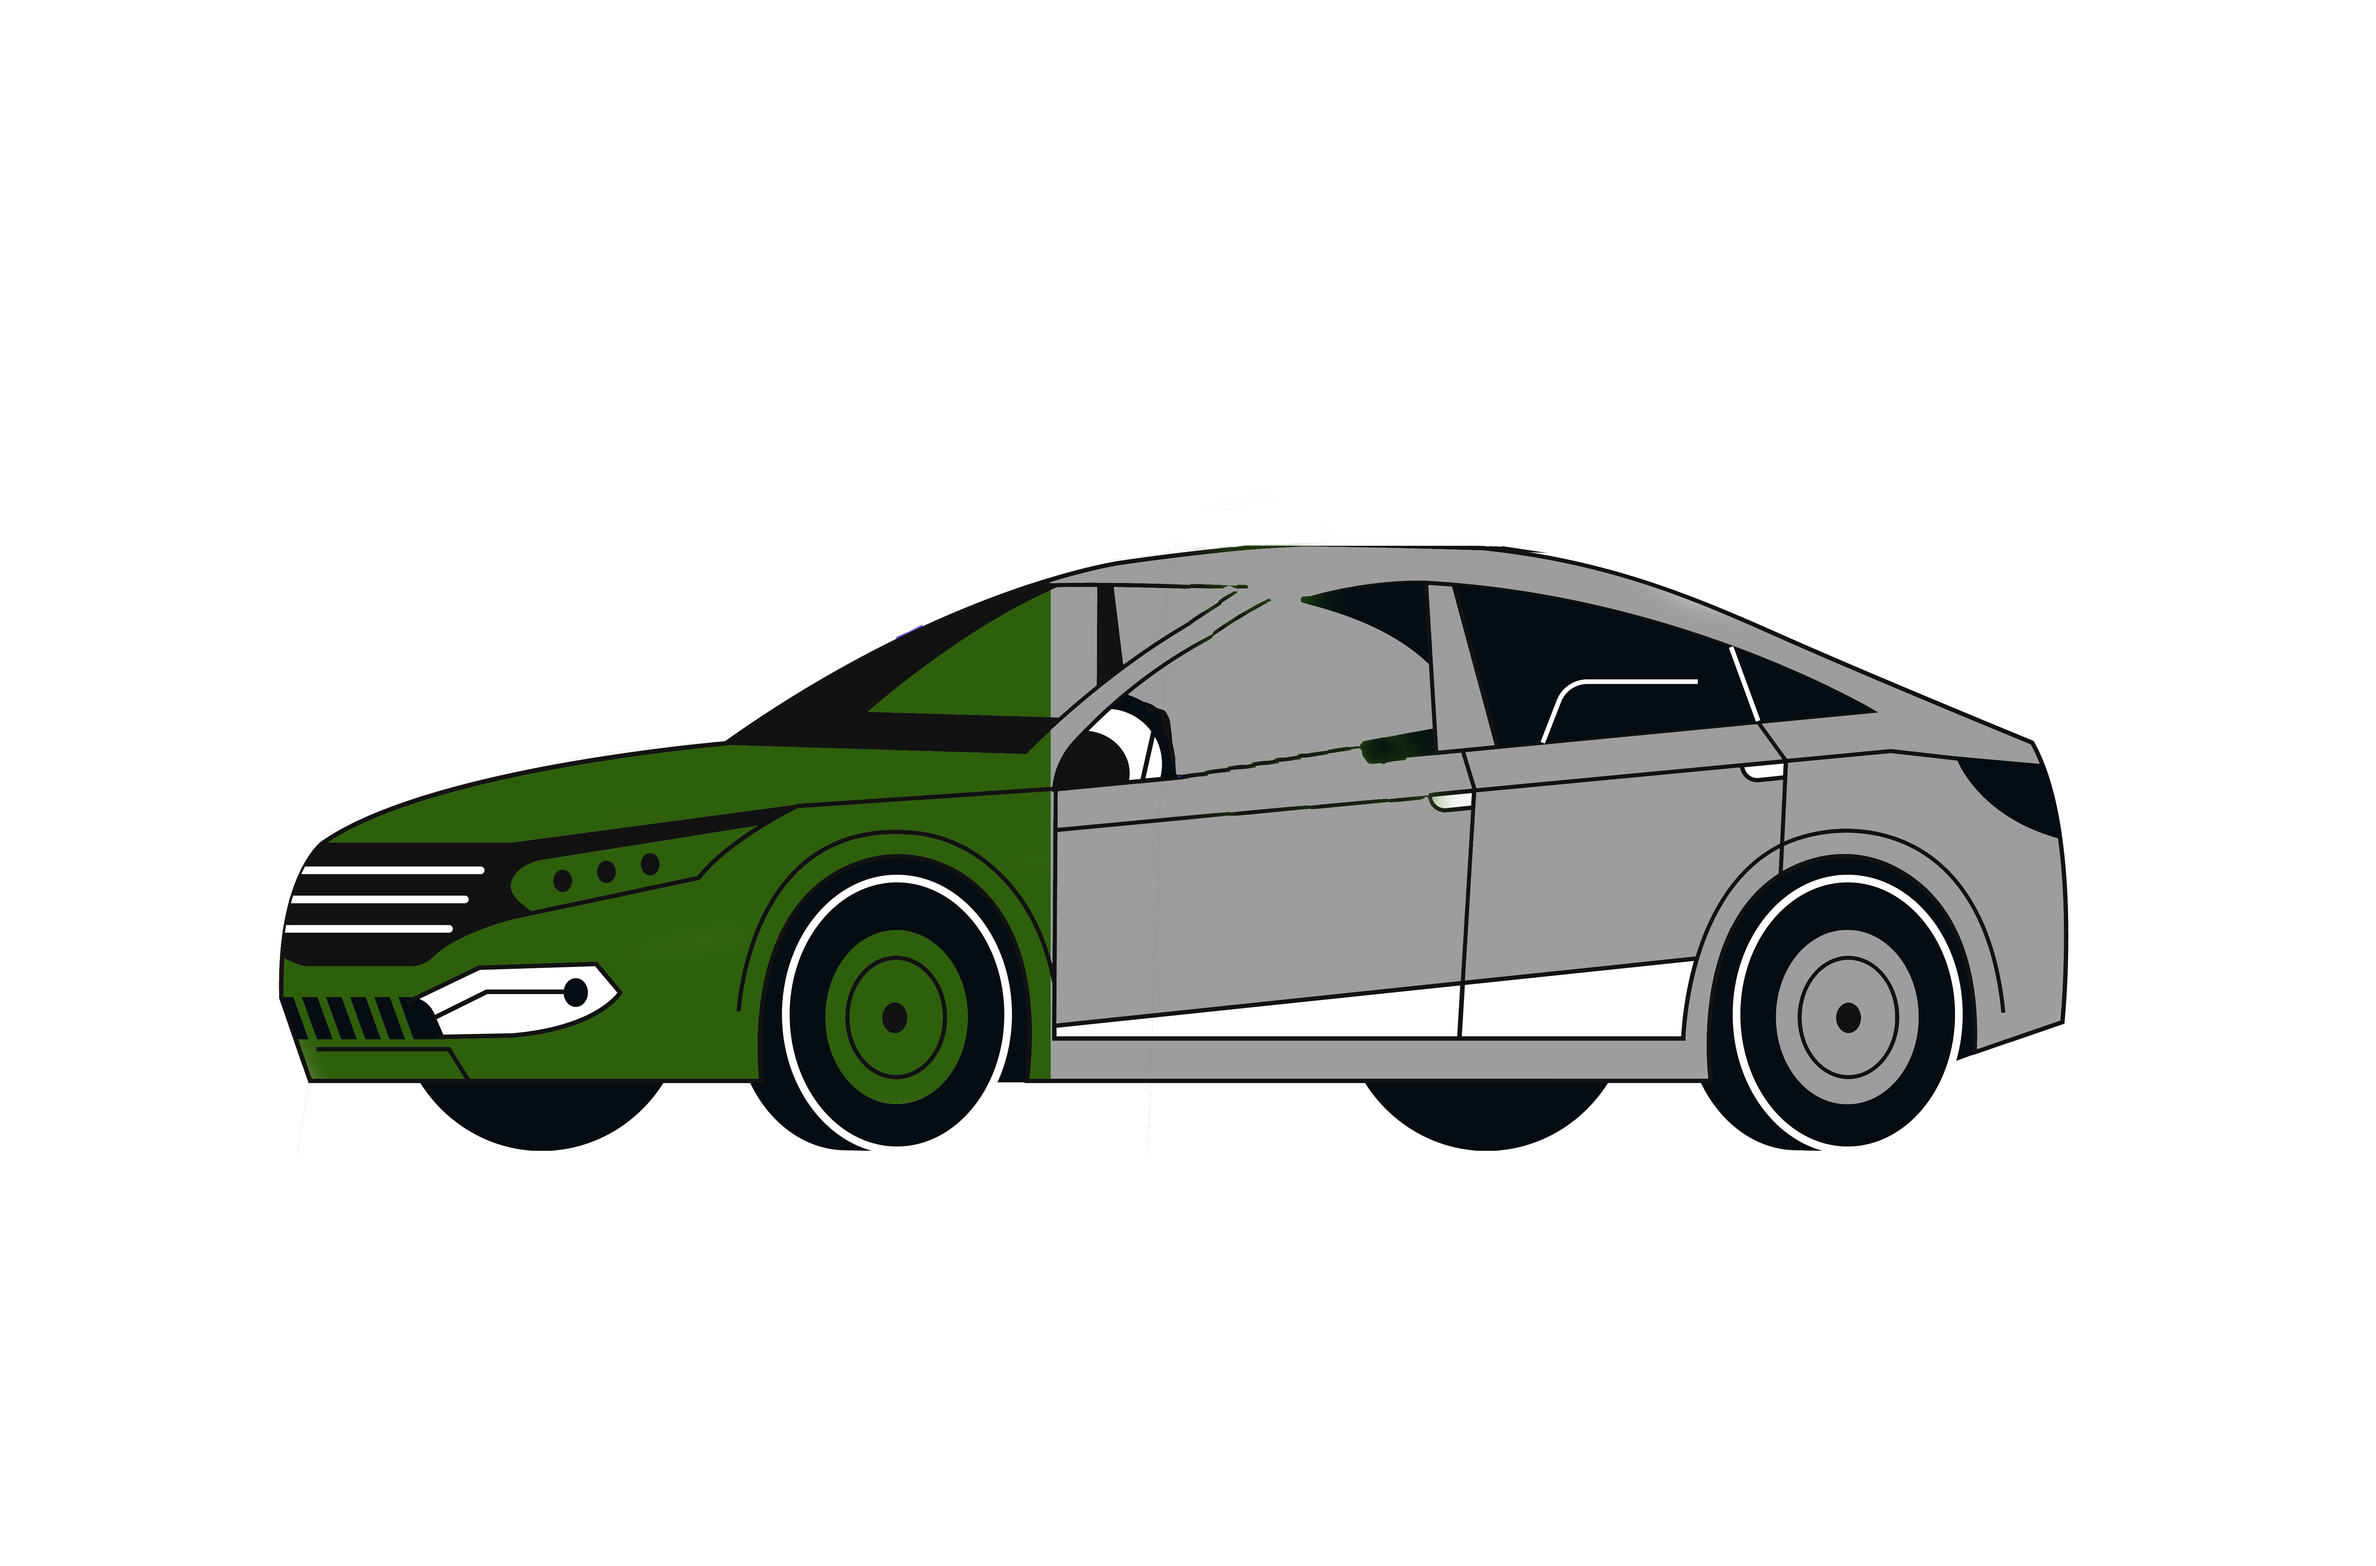
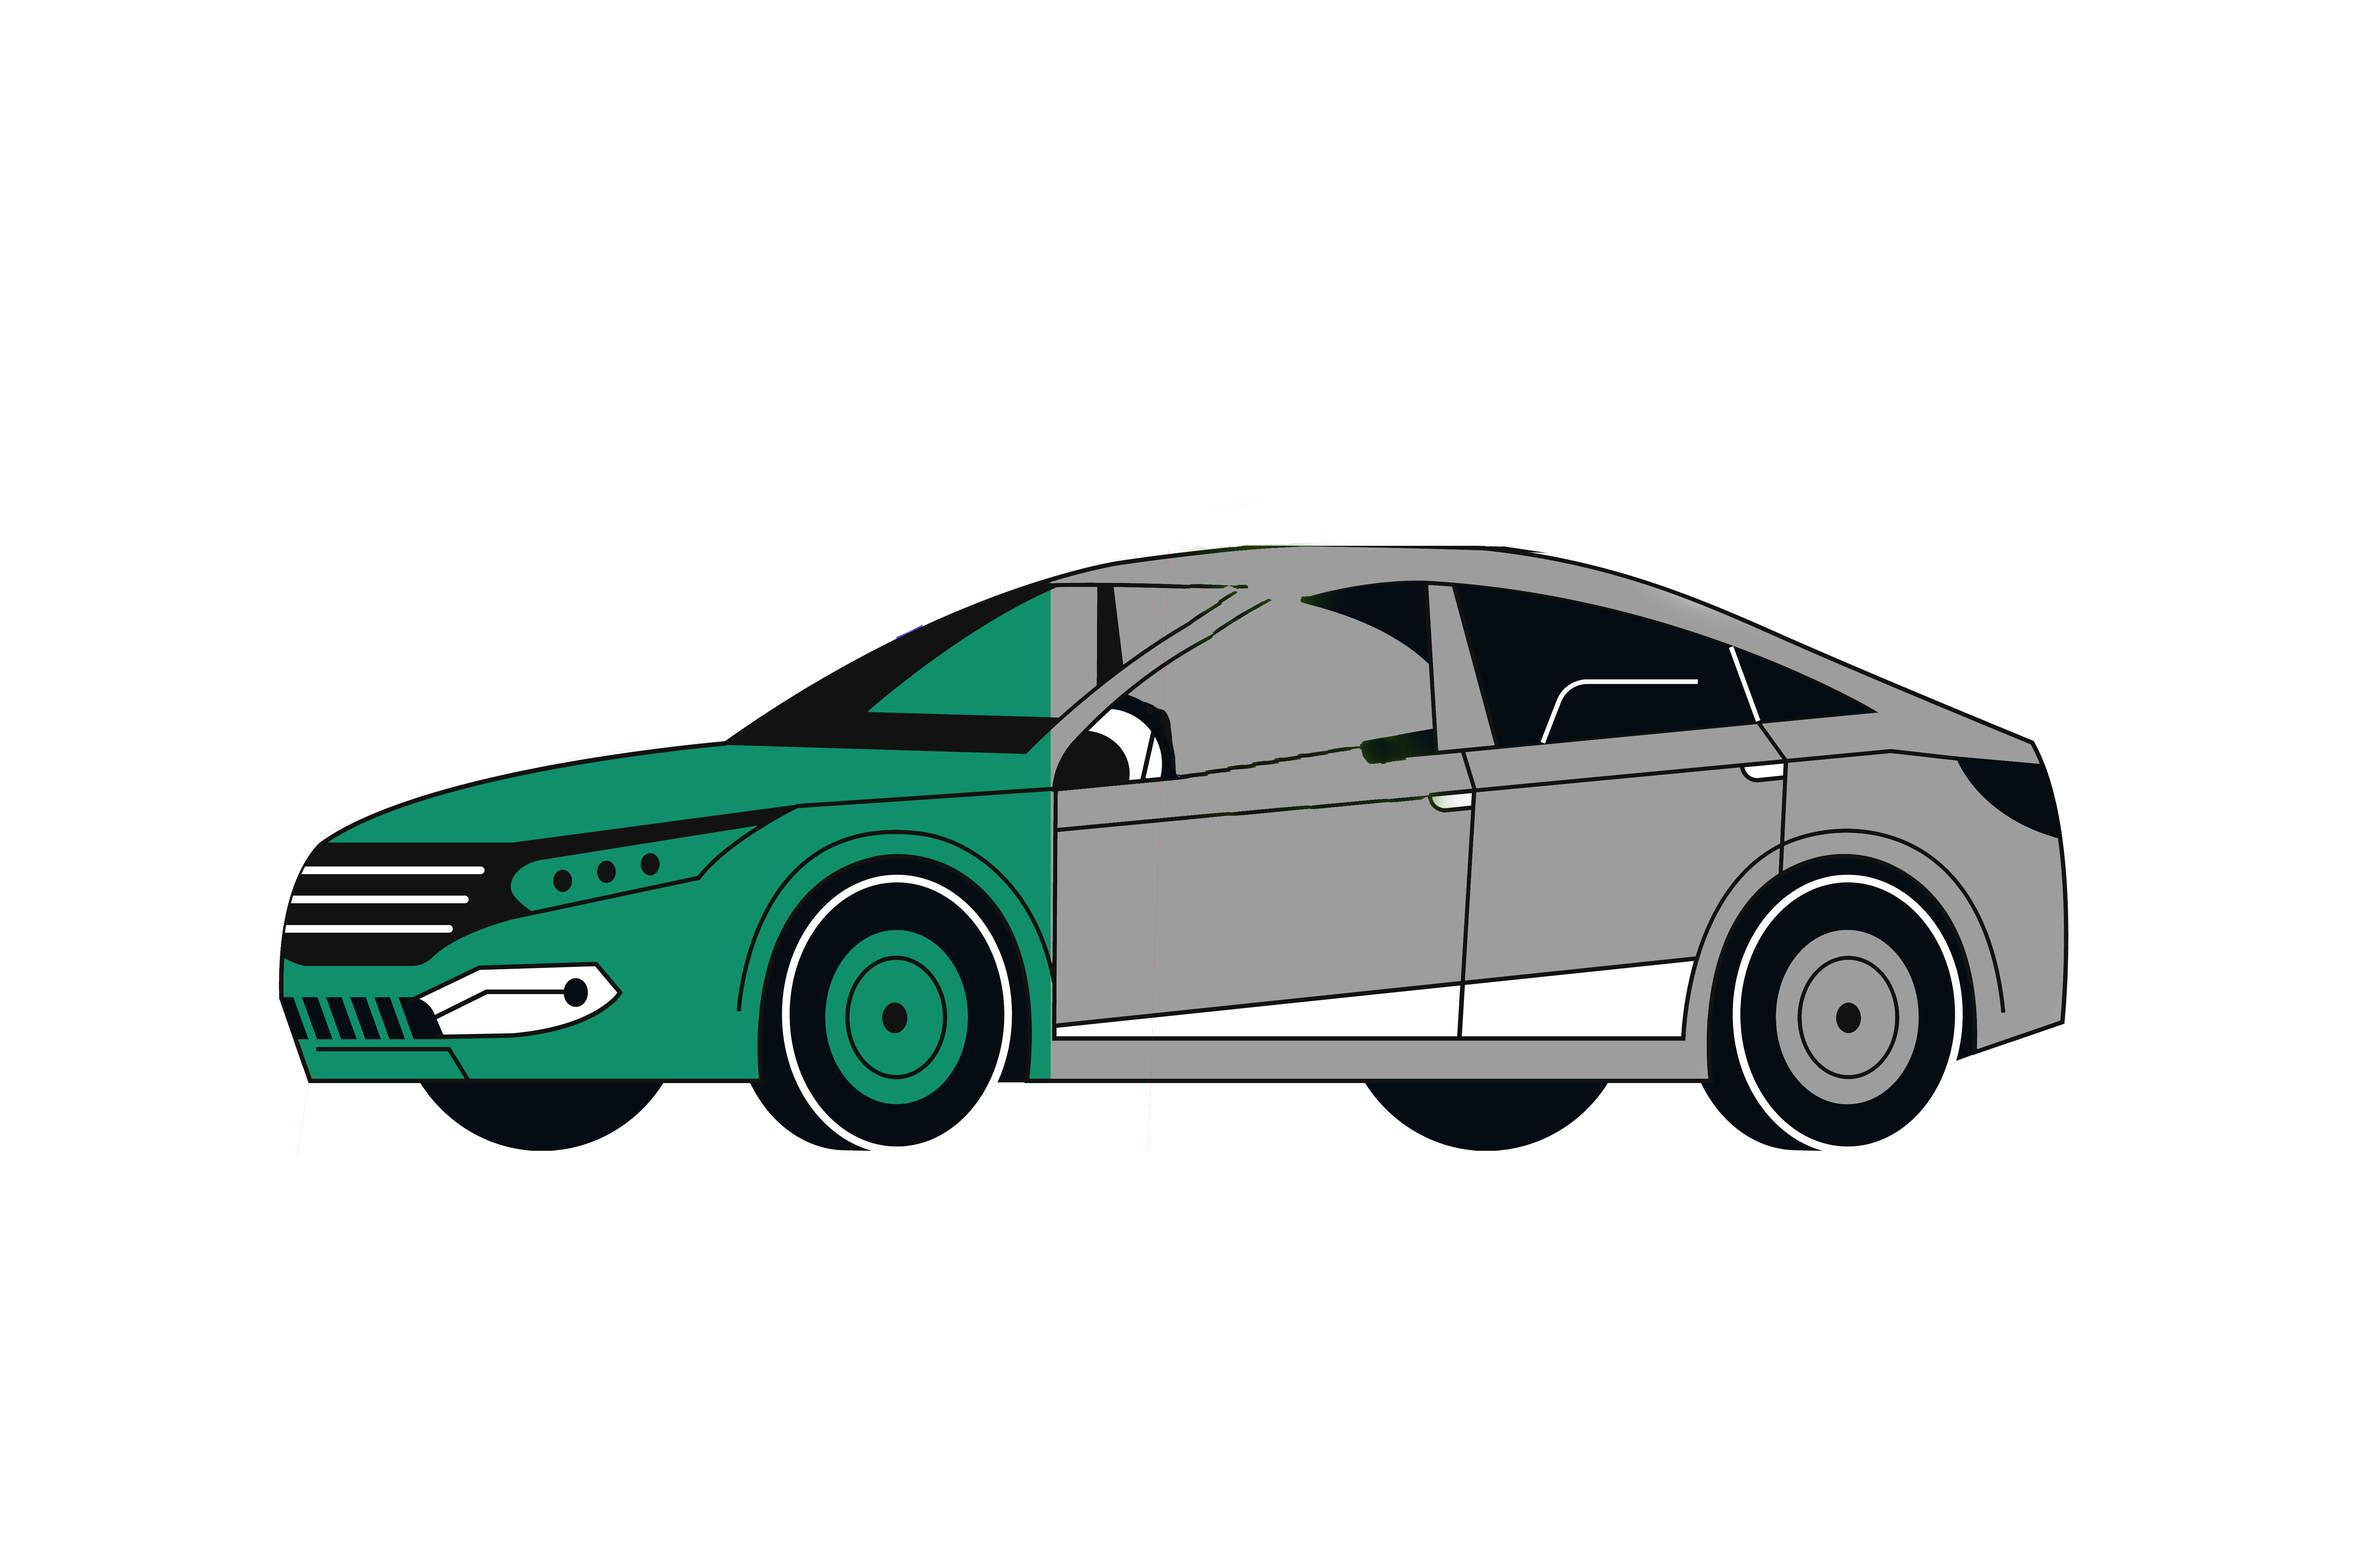
[DELETE] Remove unused car images and update Hero component text

Changed region(s): [[0.1244, 0.3748, 0.4666, 0.7184]]

diff --git a/src/components/Hero.js b/src/components/Hero.js
@@ -1,8 +1,7 @@
 import React, { useState } from "react";
 import { Grid } from "@mui/material";
 import carsData from "../data/cars.json";
-import dynamic from "next/dynamic"; 
-
+import dynamic from "next/dynamic";
 
 const SearchBar = dynamic(() => import("../components/SearchBar"), {
   ssr: false,
@@ -78,8 +77,14 @@ export default function Hero() {
                 marginBottom: "24px",
               }}
             >
-              <span style={{ color: "#ff3f60", fontWeight: 900 }}>
-                Renta un sueño, renta un auto
+              <span
+                style={{
+                  color: "#ff3f60",
+                  fontWeight: 900,
+                  marginBottom: "20px",
+                }}
+              >
+                Renta el auto que necesitas, sin letas chiquitas
               </span>{" "}
               <br />{" "}
               <span
@@ -89,10 +94,7 @@ export default function Hero() {
                   position: "relative",
                   top: "-10px",
                 }}
-              >
-                {" "}
-                Rápido y sencillo{" "}
-              </span>
+              ></span>
             </h2>
           </div>
           <div
@@ -101,7 +103,7 @@ export default function Hero() {
               width: "100%",
               display: "flex",
               justifyContent: "center",
-              marginTop: "120px",
+              marginTop: "140px",
             }}
           >
             <SearchBar onSearch={handleSearch} />
